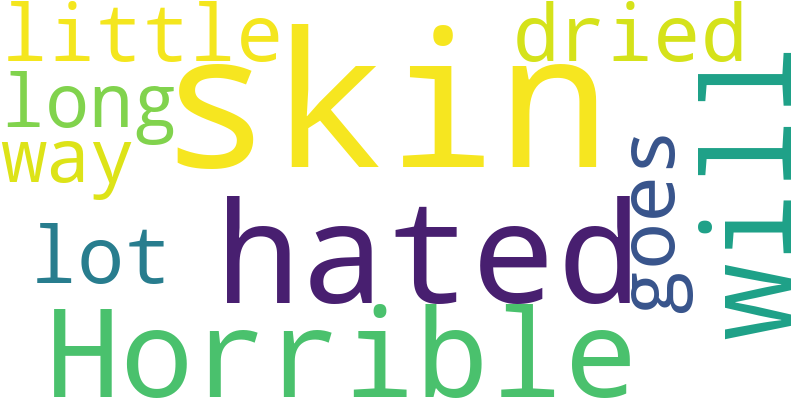
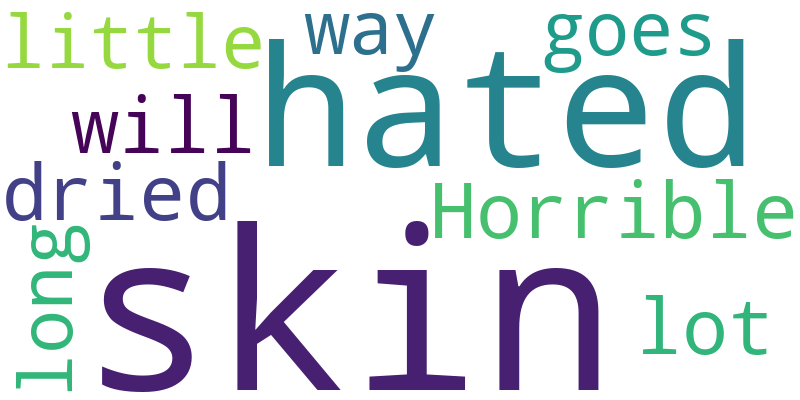
Enhance sentiment analysis results page with new loading screen, refresh functionality, and updated styles; replace word cloud images

diff --git a/templates/classification_result.html b/templates/classification_result.html
@@ -5,6 +5,9 @@
     <meta name="viewport" content="width=device-width, initial-scale=1.0">
     <title>Sentiment Analysis Results</title>
     <link rel="stylesheet" href="{{ url_for('static', filename='styles1.css') }}">
+    <link href="https://cdnjs.cloudflare.com/ajax/libs/font-awesome/6.0.0/css/all.min.css" rel="stylesheet">
+    <link href="https://fonts.googleapis.com/icon?family=Material+Icons" rel="stylesheet">
+
     <style>
         /* General Styles */
         body {
@@ -37,11 +40,31 @@
             }
         }
 
-        h1,
-        h2 {
-            color: #f8f8f8;
-            margin-bottom: 20px;
-        }
+        h1 {
+    color: #bbf305; /* Your original yellow color */
+    margin-bottom: 20px;
+    font-family: 'Trebuchet MS', sans-serif; /* Modern font */
+    font-size: 36px; /* Larger font size */
+    font-weight: bold;
+    letter-spacing: 2px; /* Add spacing between letters for style */
+    text-transform: uppercase; /* Optional: makes all letters uppercase */
+    text-shadow: 2px 2px 5px rgba(0, 0, 0, 0.6); /* Shadow effect for depth */
+    border-bottom: 2px solid #bbf305; /* Underline for emphasis */
+    padding-bottom: 10px; /* Padding for the underline */
+}
+
+h2 {
+    color: #f8f8f8; /* Original color */
+    font-family: 'Georgia', serif; /* Elegant, serif font for contrast */
+    font-size: 28px; /* Slightly larger font size */
+    font-weight: 600; /* Medium-bold for better readability */
+    letter-spacing: 1px; /* Subtle spacing */
+    text-shadow: 1px 1px 3px rgba(0, 0, 0, 0.5); /* Softer shadow effect */
+    border-left: 4px solid #f8f8f8; /* Vertical left border for visual interest */
+    padding-left: 15px; /* Padding to create space from the border */
+    margin-bottom: 20px;
+    text-transform: capitalize; /* Capitalizes the first letter of each word */
+}
 
         /* Chart Container */
         .charts-container {
@@ -202,13 +225,100 @@
                 transform: translateX(-100%);
             }
         }
+
+        .refresh-symbol {
+            all: unset; /* Resets all default browser button styles */
+            cursor: pointer;
+            font-size: 24px; /* Size of the icon */
+            color: #f8f8f8; /* Default color */
+            transition: color 0.3s ease;
+        }
+
+        .refresh-symbol:hover {
+            color: #3498db; /* Change color when hovered */
+        }
+
+        /* Loading Screen */
+        #loading-screen {
+            position: fixed;
+            top: 0;
+            left: 0;
+            width: 100%;
+            height: 100%;
+            background: rgba(0, 0, 0, 0.85);
+            display: none;
+            justify-content: center;
+            align-items: center;
+            z-index: 9999;
+            flex-direction: column;
+            color: white;
+            text-align: center;
+        }
+
+        .spinner {
+            border: 8px solid #f3f3f3;
+            border-radius: 50%;
+            border-top: 8px solid #3498db;
+            width: 60px;
+            height: 60px;
+            animation: spin 1s linear infinite;
+            margin-bottom: 20px;
+        }
+
+        @keyframes spin {
+            0% {
+                transform: rotate(0deg);
+            }
+
+            100% {
+                transform: rotate(360deg);
+            }
+        }
+
+        .loading-message {
+            font-size: 20px;
+            font-weight: bold;
+            color: #ffffff;
+            margin-top: 10px;
+            animation: fadeIn 2s infinite;
+        }
+
+        @keyframes fadeIn {
+
+            0%,
+            100% {
+                opacity: 0.6;
+            }
+
+            50% {
+                opacity: 1;
+            }
+        }
+        .print-symbol {
+    font-size: 36px; /* Size of the icon */
+    color: #4caf50; /* Green for a professional look */
+    cursor: pointer;
+    transition: color 0.3s;
+}
+
+.print-symbol:hover {
+    color: #388e3c; /* Darker green on hover */
+}
+
     </style>
 </head>
 
 <body>
+    <!-- Loading Screen -->
+    <div id="loading-screen">
+        <div class="spinner"></div>
+        <p id="loading-message" class="loading-message">Refreshing reviews. . .</p>
+    </div>
     <div class="container">
-        <h1>Sentiment Analysis Results</h1>
-        <h2>Summary of Reviews by Sentiment</h2>
+        <h1>Sentimental Feedback Analysis Report</h1>
+        <h2>Summary of Reviews (Positive,Neutral,Negative)&nbsp&nbsp&nbsp&nbsp&nbsp<button id="refreshButton" class="refresh-symbol" title="Refresh Results">
+            <i class="fas fa-sync-alt"></i> 
+        </button></h2>
 
         <!-- Sentiment Cards -->
         <div class="card-container">
@@ -265,7 +375,7 @@
                 </tbody>
             </table>
         </div>
-
+        <br><h2>Graphical Representation of Generated Report</h2>
         <!-- Charts -->
         <div class="charts-container">
             <div class="chart">
@@ -284,22 +394,66 @@
                     alt="Sentiment Polarity Distribution">
             </div>
         </div>
-        <button id="printButton" class="btn btn-primary mt-3">Print Results</button>
+        
         <script>
+            // JavaScript to handle the refresh functionality
+            document.getElementById("refreshButton").addEventListener("click", function () {
+                location.reload(); // Reload the page
+            });
+        </script>
+        <h3>Download the report(Click below👇🏻. . .)</h3>
+          <!-- Print Button -->
+        <span id="printButton" class="material-icons print-symbol" title="Print Results">print</span>
+         
+         
+         <script>
             // JavaScript to handle the print functionality
             document.getElementById("printButton").addEventListener("click", function () {
                 window.print();
             });
         </script>
-        <!-- Back Button -->
+        <!-- Back Button --><br>
         <a href="/" class="back-btn">Analyze Another File</a>
-        <div class="container">
+    <script>
+        // Attach click event to the refresh button
+        document.getElementById("refreshButton").addEventListener("click", function () {
+            showLoadingScreen(); // Show the loading screen
+            setTimeout(function () {
+                location.reload(); // Refresh the page after 2 seconds
+            }, 2000); // Adjust delay as needed
+        });
+    
+        function showLoadingScreen() {
+            const loadingScreen = document.getElementById('loading-screen');
+            const loadingMessage = document.getElementById('loading-message');
+    
+            loadingScreen.style.display = 'flex';
+    
+            const messages = [
+                "Processing. . .",
+                "Hold on a sec. . .",
+                "Almost there. . .",
+                "Loading. . ."
+            ];
+    
+            let index = 0;
+            setInterval(() => {
+                if (index < messages.length) {
+                    loadingMessage.textContent = messages[index];
+                    index++;
+                }
+            }, 2000);
+        }
+    </script>
+    
+    <br><br>
+        
             <!-- Marquee -->
             <div class="marquee">
                 <span>⚠ The reports made here are completely based on trained datasets. They might sometimes be
                     incorrect. ⚠ Please verify results for critical applications. Thank you!😊</span>
-            </div>
-        </div>
+            </div>  
+    </div>
 </body>
 
 </html>
